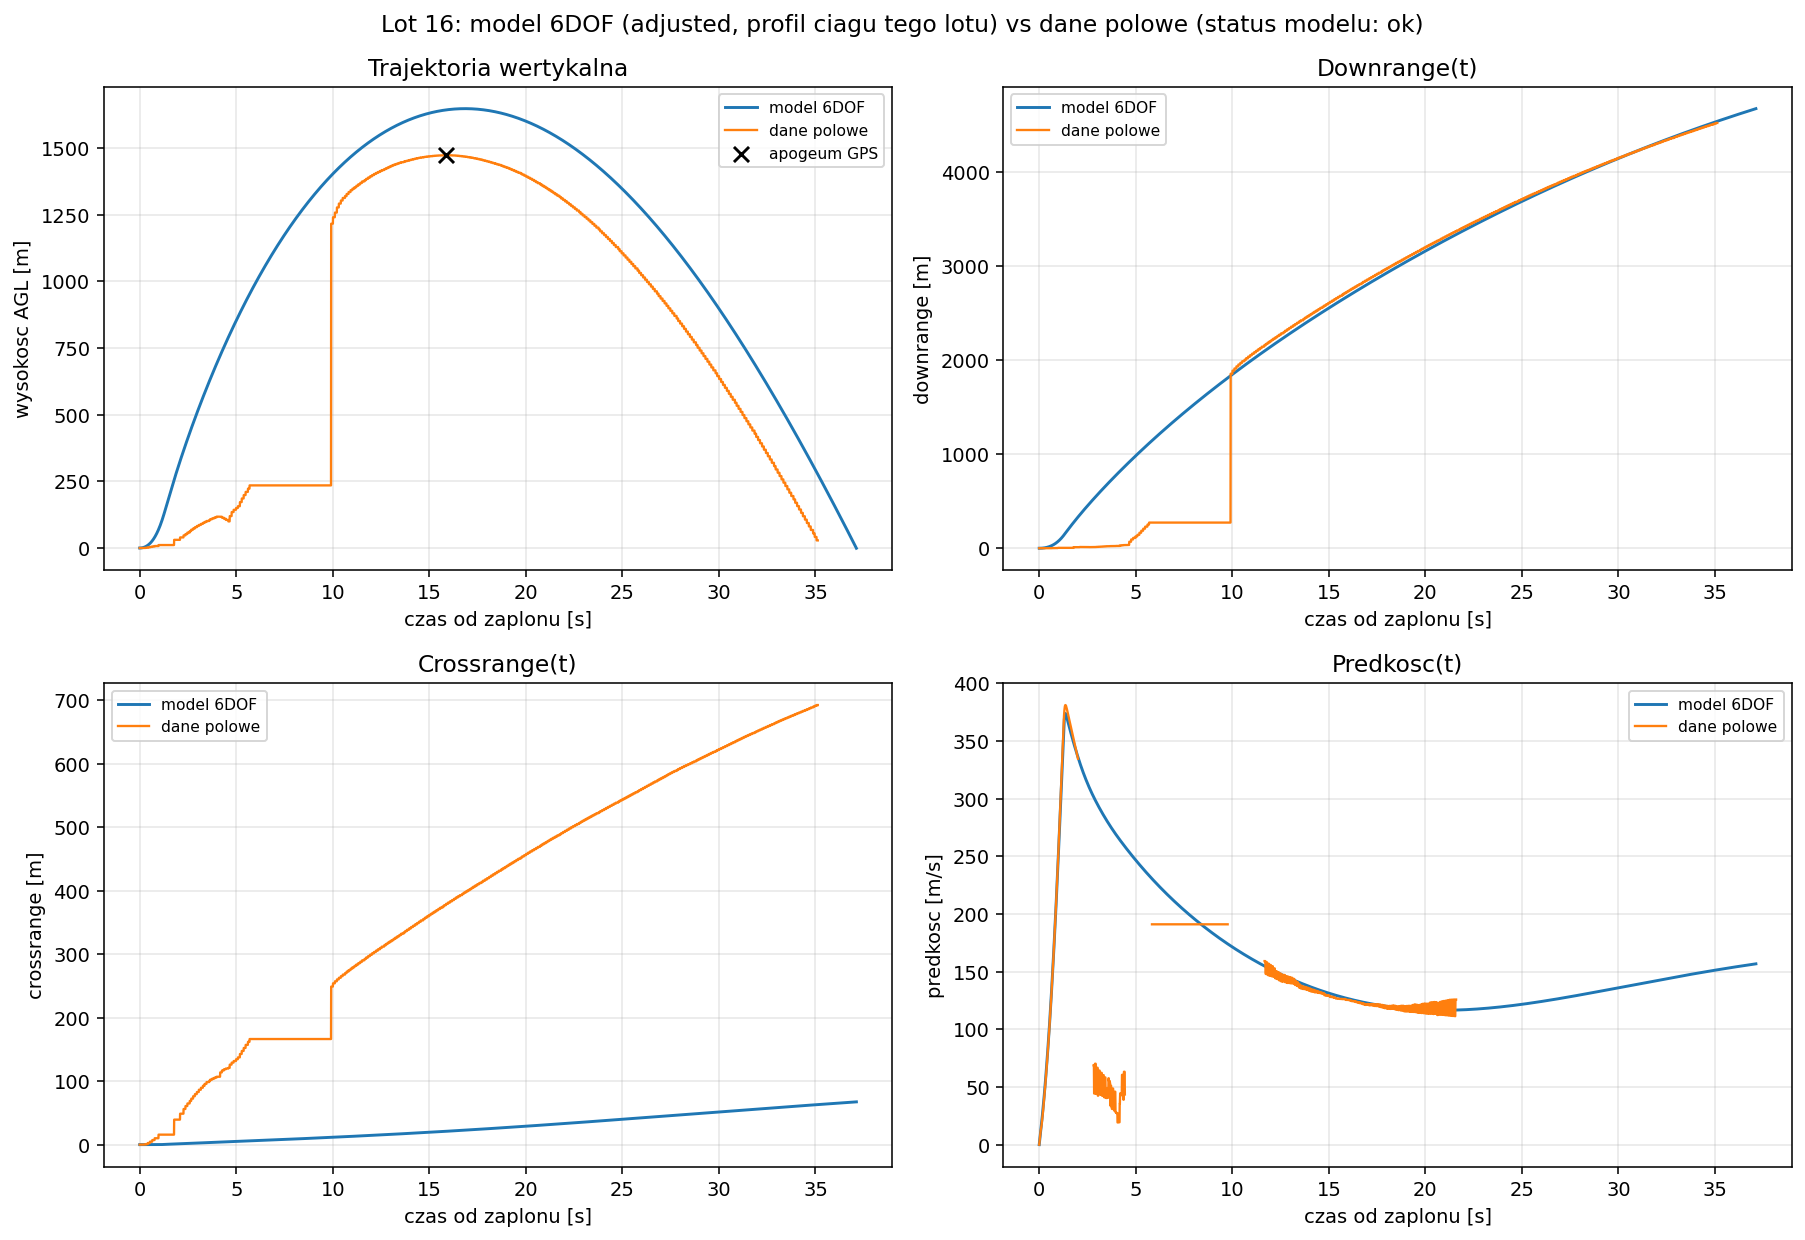
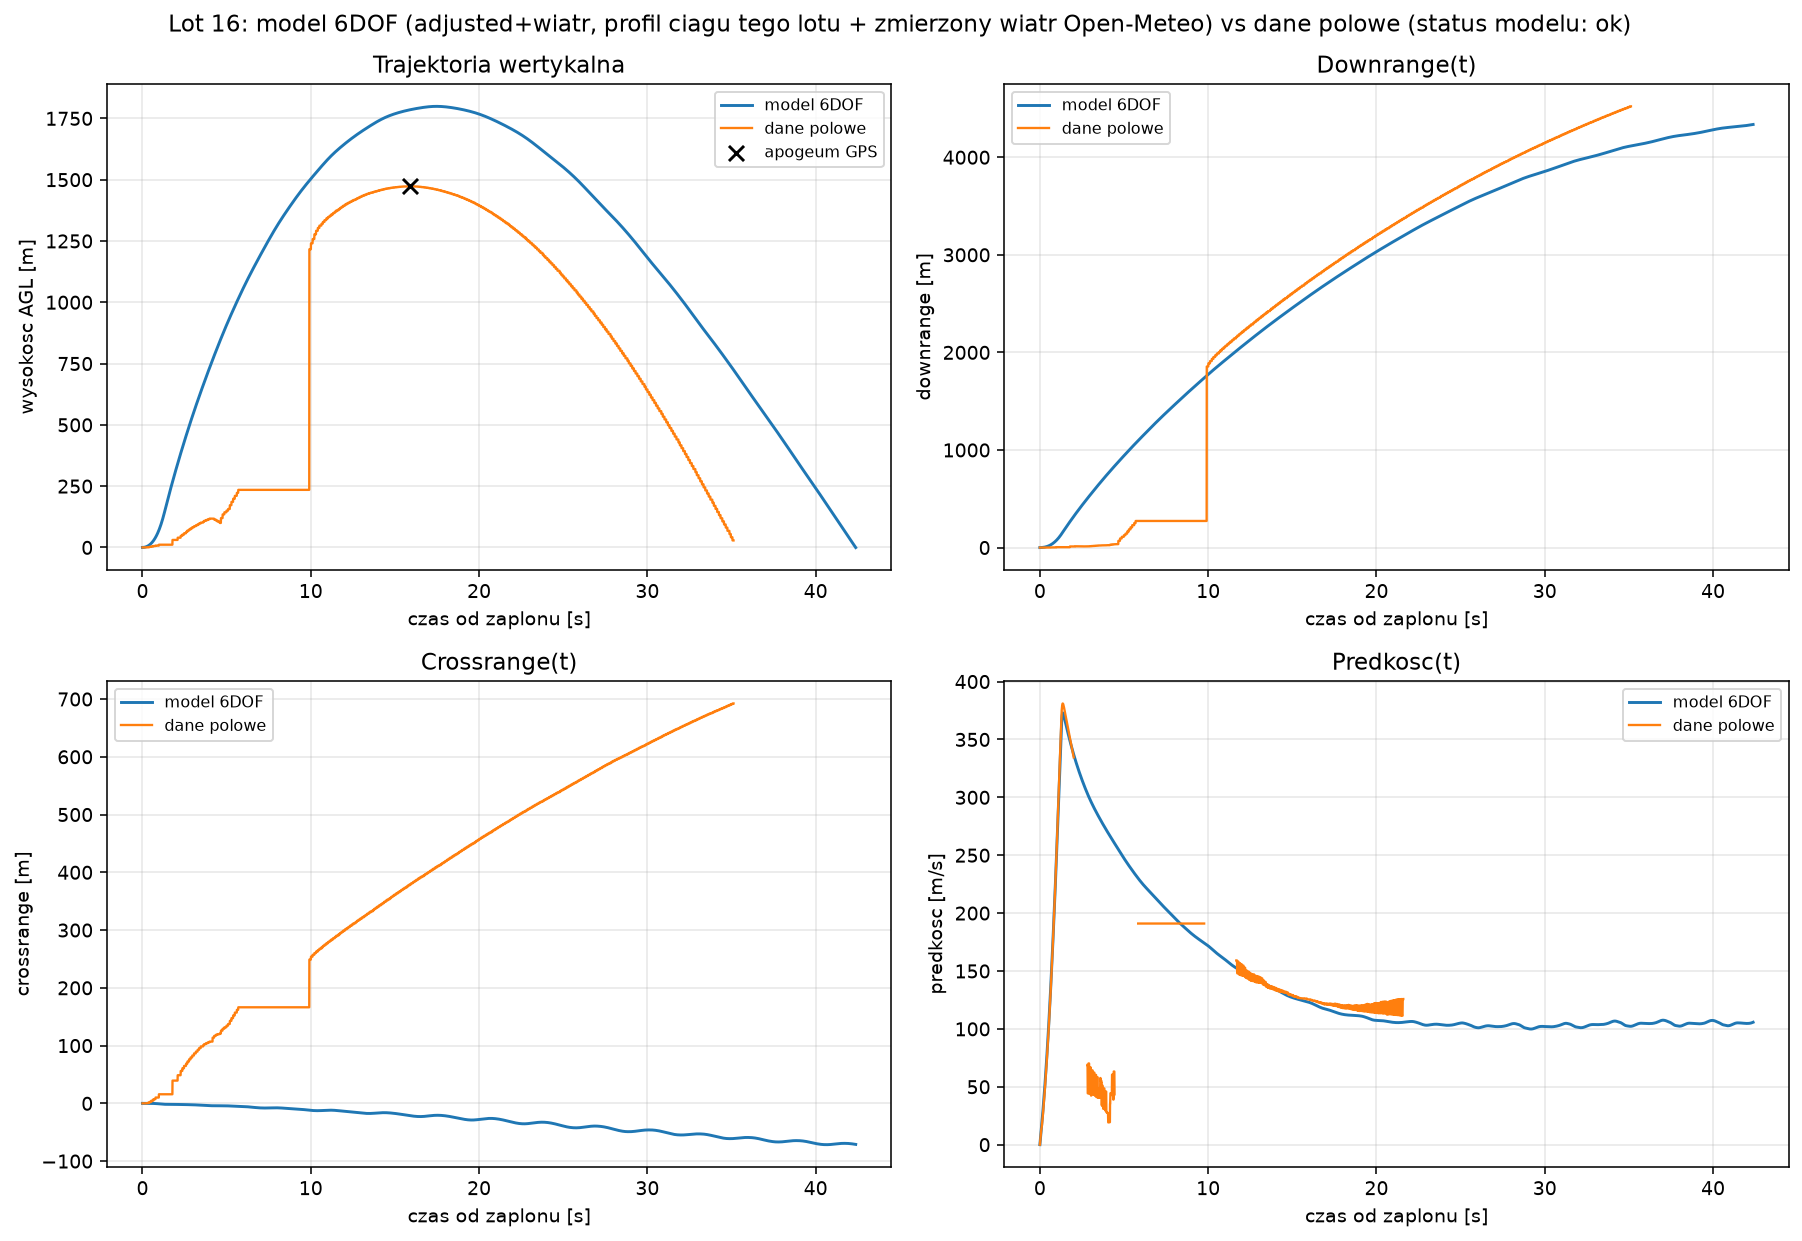
Switch plot_flight_trajectory_6dof.py to adjusted+wind variant
Pass build_flight_wind()'s measured Open-Meteo PowerLawGustWind into
ForceModel6DOF instead of running wind-free. Flights without measured
wind data are now skipped (was previously just missing thrust calib).

diff --git a/FlightSim/telemetry_analysis/plot_flight_trajectory_6dof.py b/FlightSim/telemetry_analysis/plot_flight_trajectory_6dof.py
@@ -46,6 +46,7 @@ from gps_fusion import latlon_to_enu
 
 from analyze_per_flight_6dof import (
     read_flights, build_flight_thrust, build_scaled_mass, downrange_crossrange,
+    build_flight_wind,
 )
 
 
@@ -93,10 +94,11 @@ def actual_time_series(base, fno, azimuth_deg, t_burn, elev_deg):
                 t_apo=t[i_apo] - t[i_ign], h_apo=h_baro[i_apo] - h0)
 
 
-def model_time_series(aero, geom, atm, gravity, launcher, mass, prop, initial_state):
+def model_time_series(aero, geom, atm, gravity, launcher, mass, prop, initial_state, wind_model=None):
     force_model = ForceModel6DOF(
         atmosphere=atm, mass_model=mass, aero_model=aero,
         gravity=gravity, geometry=geom, propulsion=prop, launcher=launcher,
+        wind_model=wind_model,
     )
     result = run_simulation_6dof(force_model, initial_state, t_max=100, dt_output=0.02,
                                   rtol=1e-6, atol=1e-8, max_step=0.05)
@@ -133,8 +135,8 @@ def plot_flight(fno, model, actual, out_png):
     ax.set_xlabel("czas od zaplonu [s]"); ax.set_ylabel("predkosc [m/s]")
     ax.set_title("Predkosc(t)"); ax.legend(fontsize=8); ax.grid(alpha=0.3)
 
-    fig.suptitle(f"Lot {fno}: model 6DOF (adjusted, profil ciagu tego lotu) vs dane polowe "
-                 f"(status modelu: {model['status']})", fontsize=12)
+    fig.suptitle(f"Lot {fno}: model 6DOF (adjusted+wiatr, profil ciagu tego lotu + zmierzony "
+                 f"wiatr Open-Meteo) vs dane polowe (status modelu: {model['status']})", fontsize=12)
     plt.tight_layout()
     plt.savefig(out_png, dpi=140, bbox_inches="tight")
     plt.close()
@@ -188,7 +190,13 @@ def main():
             print(f"Lot {fno}: brak thrust_flight_{fno}.csv (kalibracja ciagu) -- pomijam.")
             continue
 
-        model = model_time_series(aero, geom, atm, gravity, launcher, mass, prop_flight, initial_state)
+        wind = build_flight_wind(base, fno, r["azimuth"])
+        if wind is None:
+            print(f"Lot {fno}: brak zmierzonego wiatru (Open-Meteo) -- pomijam.")
+            continue
+
+        model = model_time_series(aero, geom, atm, gravity, launcher, mass, prop_flight, initial_state,
+                                   wind_model=wind)
         actual = actual_time_series(base, fno, r["azimuth"], t_burn, r["elevation"])
 
         plot_flight(fno, model, actual, out_dir / f"trajectory_6dof_flight_{fno}.png")
